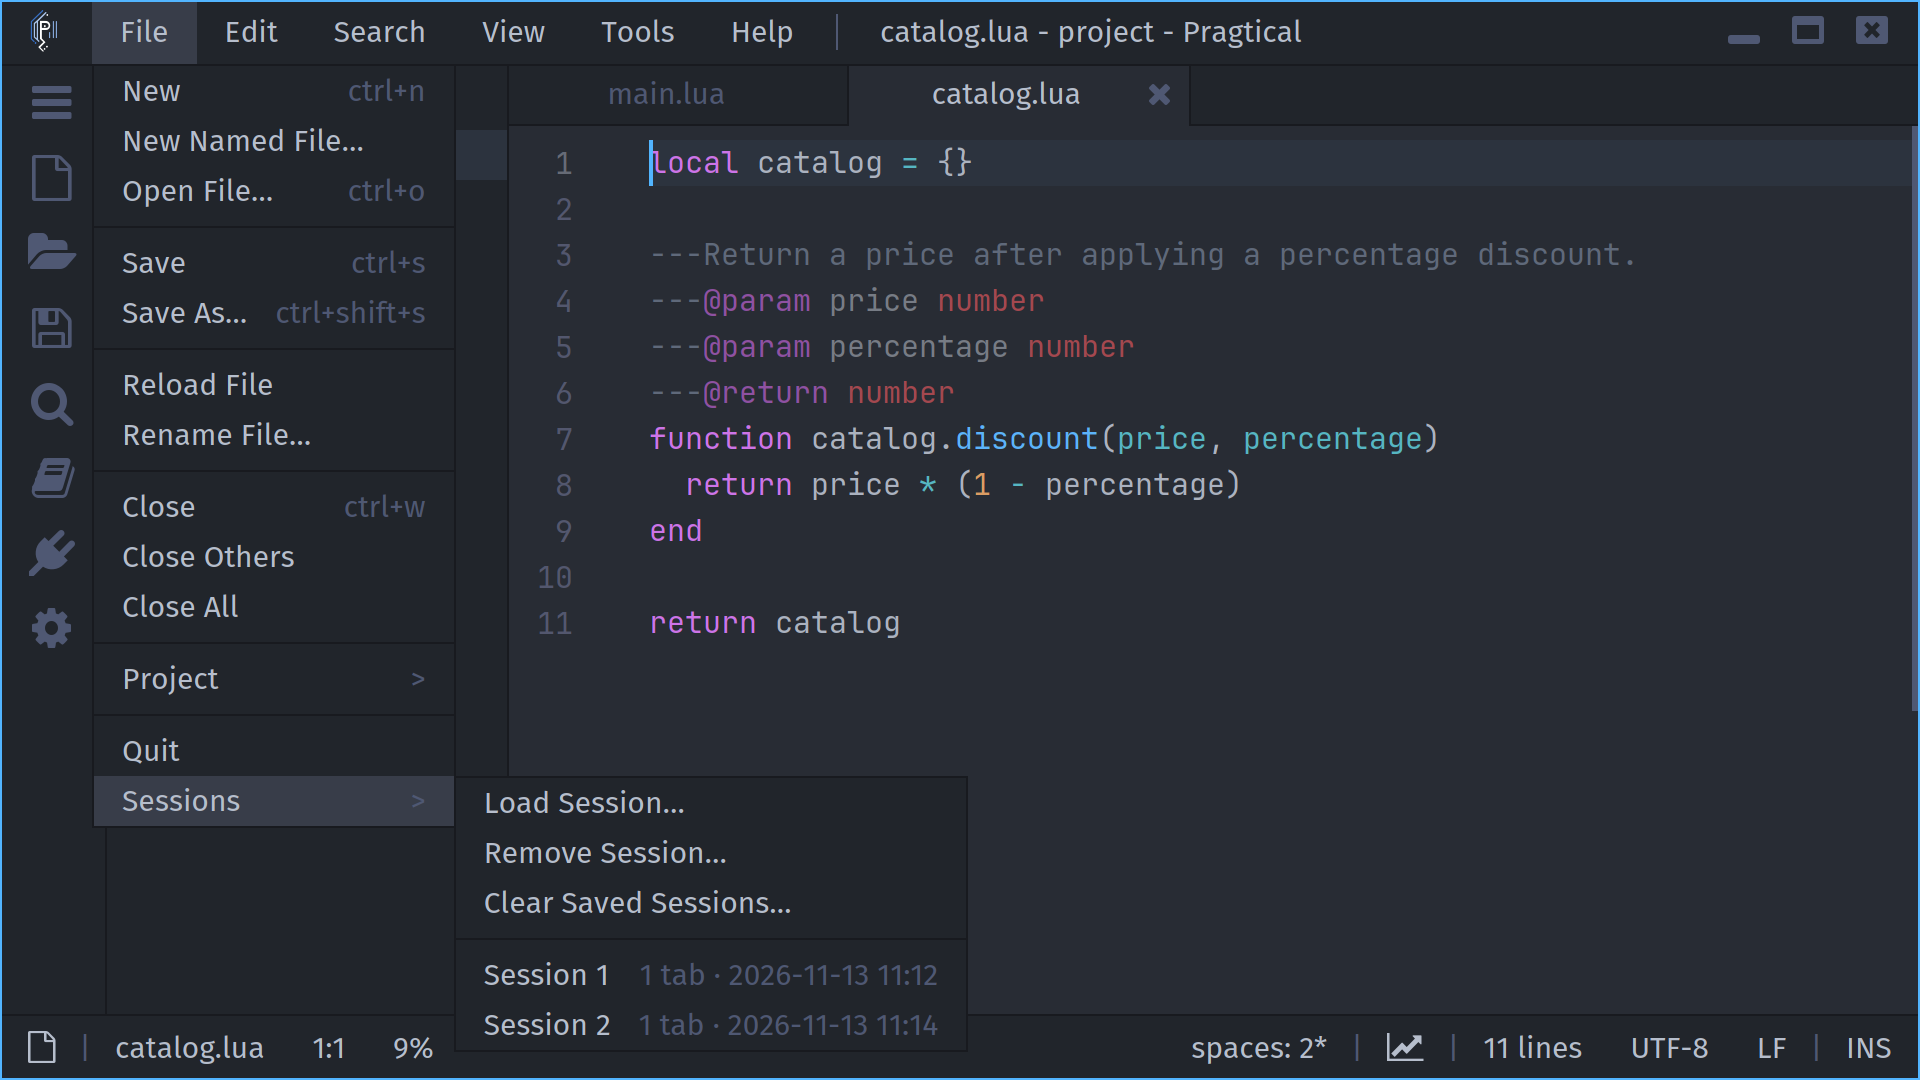
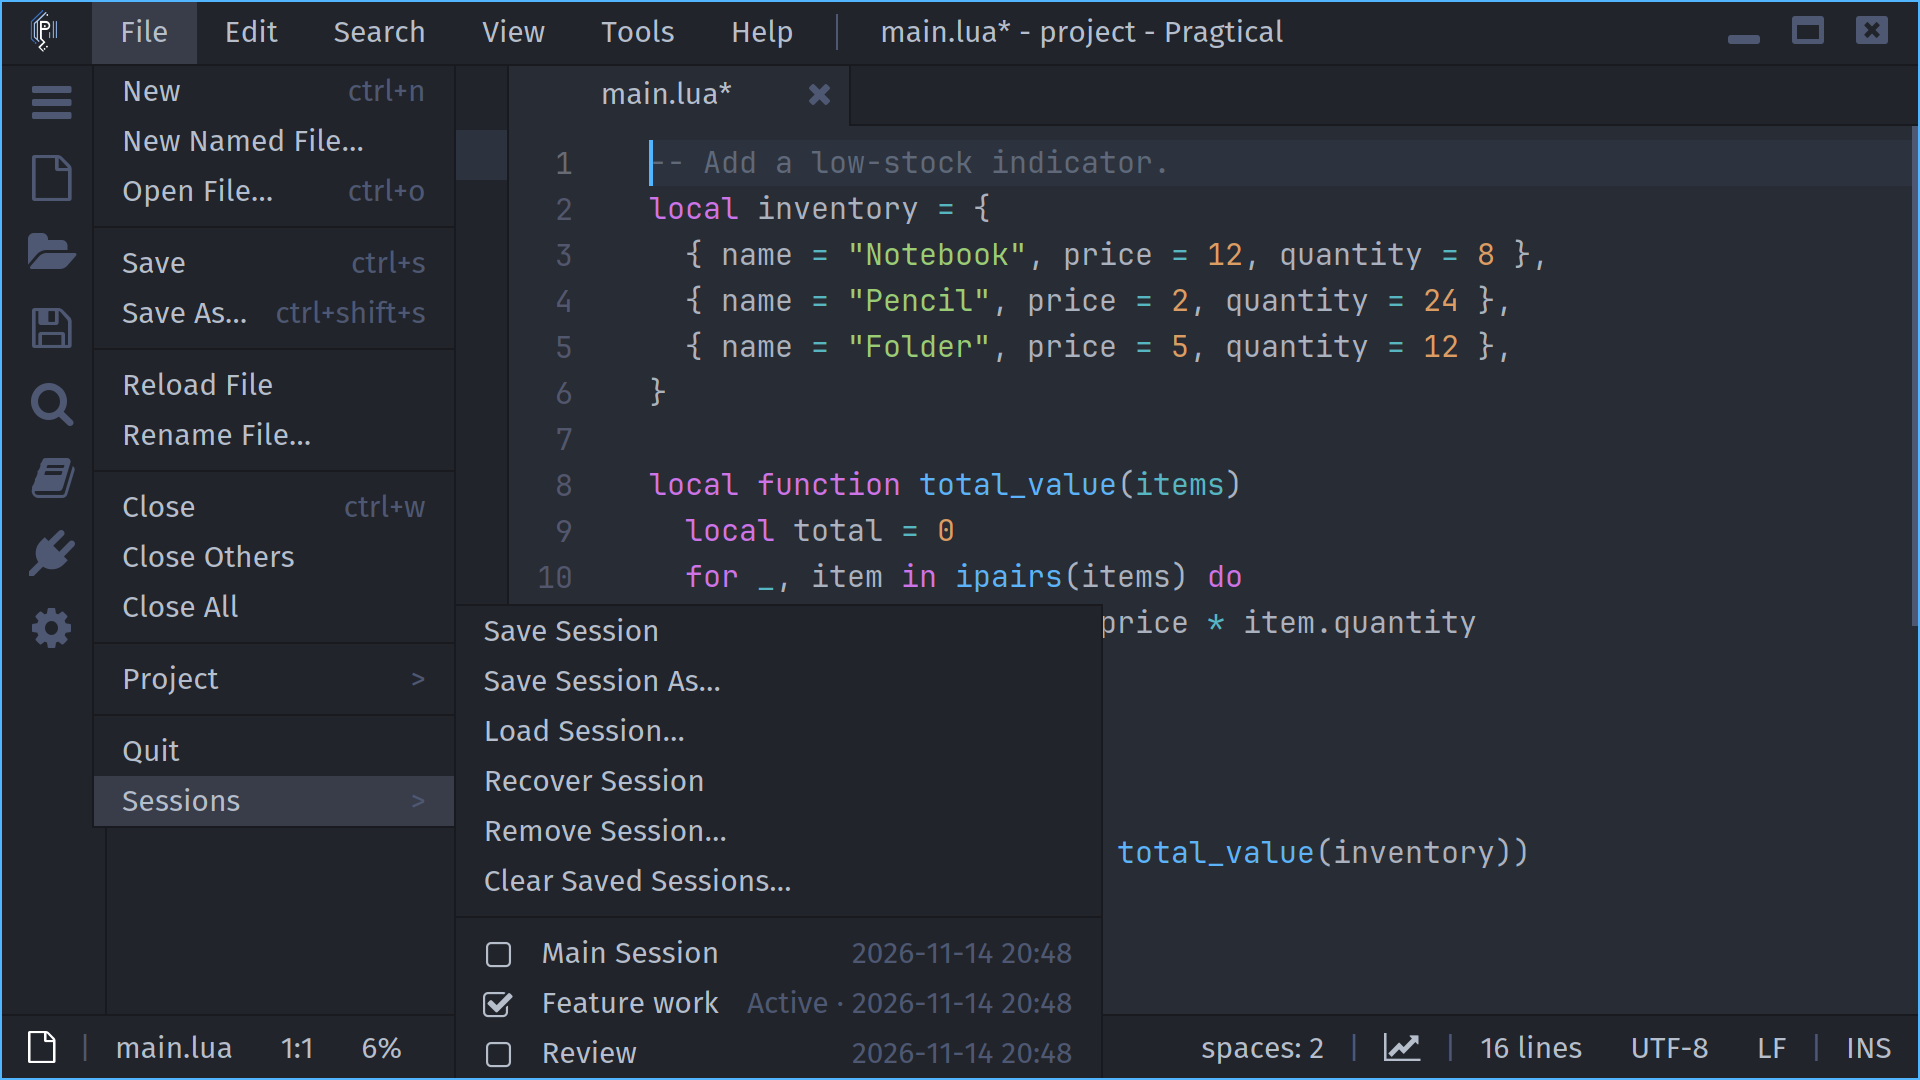
Update workspace session documentation
Document named sessions and recovery with current menu and settings
captures. Refresh the generated workspace API reference.

diff --git a/docs/user-guide/workspace-sessions.md b/docs/user-guide/workspace-sessions.md
@@ -1,45 +1,149 @@
 ---
 sidebar_position: 2.6
-description: Restore project workspaces and choose or remove saved sessions.
+description: Save named project sessions and recover unsaved work with optional periodic snapshots.
 ---
+
+import Tabs from '@theme/Tabs';
+import TabItem from '@theme/TabItem';
 
 # Workspace Sessions
 
 The Workspace plugin remembers a project's open documents, split layout,
-active tab and view state. It saves automatically when exiting or changing
-projects and restores the matching project workspace on startup.
+active tab, view state, and added project directories. Each project has a
+**Main Session** and can have additional named sessions for different tasks.
+The active session is saved when you exit or change projects and restored
+when you return.
+
+![The File menu showing session commands and a checked active named session](/img/user-guide/workspace/sessions.png)
+
+Workspace saves include unsaved text in existing files and untitled documents.
+They do **not** save those edits to the document files. Review restored edits
+before saving them normally.
+
+## Save a Session
+
+Open **File > Sessions**:
+
+- **Save Session** updates the active session immediately.
+- **Save Session As** saves the current layout and buffers under a name and
+  makes that session active.
+
+For example, keep your usual layout in Main Session, then use Save Session As
+to create a separate **Feature work** session. Later saves and normal exits
+update Feature work, leaving the saved Main Session available to load again.
+Using an existing name replaces that named session's saved state.
+
+Session names must contain non-whitespace text and cannot contain control
+characters. Very long names may be rejected, particularly when their encoded
+filenames exceed the filesystem-safe limit.
 
 ## Choose a Saved Session
 
 Open **File > Sessions** to see saved sessions for the current root project.
-Entries include a tab count and save time. Choose a session directly, or select
-**Load Session** to search the list using a command prompt.
+Main Session appears first, followed by named sessions in alphabetical order.
+A checkmark identifies the active session. Choose a session directly, or select
+**Load Session** to search the list. The prompt shows **Active** beside the
+current session and includes save times.
 
-![The File menu listing saved sessions for the current project](/img/user-guide/workspace/sessions.png)
+Before switching, the current workspace is saved to its active session. The
+chosen session replaces the document layout and becomes active; loading does
+not delete its saved file. If the backup or restoration fails, the current
+layout and selection are retained. Locked panels stay attached while the
+document layout is restored.
 
-Before switching, the current workspace is backed up, including unsaved text
-in existing files and untitled documents. The chosen session replaces the
-document layout. If the backup or restoration fails, the current layout and
-selected saved session are retained.
+Normal startup returns to the last active session, or Main Session if that
+named session no longer exists. Opening explicit files on startup skips
+automatic workspace restoration; you can still load a session manually.
 
-Session loading restores buffers; it does not save those buffers to their
-files. Review restored edits before saving them.
+## Recover Unsaved Work
+
+Optional periodic saving keeps a temporary recovery snapshot of the project's
+layout and unsaved buffers. It is disabled by default. When enabled, it saves
+changed workspace state every **10 seconds** by default, without writing the
+document files or replacing the active session's regular save.
+
+Each project has one recovery snapshot, reused rather than accumulated into a
+history. It records which session the work belongs to. On normal project
+restoration, an available recovery snapshot takes precedence over the regular
+session save. You can also choose **File > Sessions > Recover Session** to
+restore it manually.
+
+Recovery restores unsaved edits as buffers, not as saved changes on disk.
+A successful regular session save clears the temporary recovery snapshot.
+Periodic saving cannot recover edits made after its latest snapshot, so save
+important work normally rather than relying on it as a backup system.
+
+### Configuration
+
+<Tabs groupId="configuration">
+  <TabItem value="user-module" label="User Module" default>
+
+Enable periodic recovery in your user module:
+
+```lua
+local config = require "core.config"
+
+config.plugins.workspace.autosave = true
+config.plugins.workspace.autosave_interval = 10 -- Seconds; minimum 1.
+```
+
+Set `autosave` to `false` to disable periodic snapshots. Saving on exit,
+project changes, and through the session commands still works.
+
+  </TabItem>
+  <TabItem value="settings-ui" label="Settings UI">
+
+Open Settings, select **Plugins**, and expand **Workspace**. Enable
+**Periodically Save Workspace** and adjust **Save Interval** in seconds.
+Changes apply without restarting the editor.
+
+![Workspace plugin settings with periodic saving enabled and a ten-second interval](/img/user-guide/workspace/settings.png)
+
+  </TabItem>
+</Tabs>
+
+Workspace recovery is separate from the optional Autosave plugin that saves
+document files. Enabling one does not enable the other.
 
 ## Remove Saved Sessions
 
-**Remove Session** lets you choose one saved session to delete.
-**Clear Saved Sessions** removes all saved sessions belonging to the current
-root project after confirmation. Neither action closes the currently open
-tabs or removes sessions belonging to another project. Automatic saving on
-exit remains enabled.
+**Remove Session** lets you choose one saved session to delete after
+confirmation. Removing the active named session returns the active selection
+to Main Session and clears its recovery data without closing your current tabs.
+
+**Clear Saved Sessions** removes this project's saved sessions and recovery
+snapshot after confirmation. Neither action closes the currently open tabs,
+saves document files, or removes sessions belonging to another project.
+Saving on exit remains enabled, so a session can be created again from the
+still-open workspace.
+
+## Commands
+
+Press <kbd>ctrl+shift+p</kbd> to find these commands, or use **File > Sessions**.
 
 | Command | Action |
 | --- | --- |
-| `workspace:load-session` | Choose a saved workspace to load. |
+| `workspace:save-session` | Update the active session. |
+| `workspace:save-session-as` | Save a named session and activate it. |
+| `workspace:load-session` | Choose a saved session to load and activate. |
+| `workspace:recover-session` | Restore the project's temporary recovery snapshot. |
 | `workspace:remove-session` | Choose a saved session to remove. |
-| `workspace:clear-sessions` | Confirm removal of this project's saved sessions. |
+| `workspace:clear-sessions` | Confirm removal of this project's saved sessions and recovery data. |
+
+## Storage and Project Matching
 
 Added project directories are stored as absolute paths, so restoration does
-not depend on the directory from which the editor was launched. Sessions are
-local user state; they are separate from trusted project configuration and
-from a plugin's optional [project storage](../developer-guide/writing-plugins/persistent-state.md).
+not depend on the directory from which the editor was launched. Missing
+directories are skipped with a warning. Sessions belong to the root project's
+full path, so projects with the same folder name do not share a session.
+
+Session files live under `storage/ws/<project-name>-<path-hash>/` in the user
+directory. This directory contains `main`, optional `session-<encoded-name>`
+files, and a temporary `recovery` file when needed. Older session files are
+migrated automatically. Multiple editor windows for the same root project
+share these files; they do not have independent per-window recovery histories.
+
+Sessions are local user state, separate from trusted project configuration
+and from a plugin's optional
+[project storage](../developer-guide/writing-plugins/persistent-state.md).
+For plugin integration, see the [Workspace API](/docs/api/plugins.workspace).

diff --git a/docs/api/plugins.workspace.md b/docs/api/plugins.workspace.md
@@ -12,23 +12,13 @@ local workspace = require "plugins.workspace"
 
 ## plugins.workspace.session
 
-### count
+### active
 
 ```lua
-(field) count: integer
+(field) active: boolean
 ```
 
-Number of saved tabs
-
----
-
-### id
-
-```lua
-(field) id: integer
-```
-
-Numeric suffix shared by projects with the same basename
+Whether this is the current session
 
 ---
 
@@ -38,7 +28,7 @@ Numeric suffix shared by projects with the same basename
 (field) key: string
 ```
 
-Original storage key, used to load or remove the session
+Filename within this project's storage directory
 
 ---
 
@@ -48,7 +38,7 @@ Original storage key, used to load or remove the session
 (field) name: string
 ```
 
-User name or automatically assigned session label
+Display name derived from the filename
 
 ---
 
@@ -58,7 +48,7 @@ User name or automatically assigned session label
 (field) saved_at: integer?
 ```
 
-Unix time at which the snapshot was saved
+File modification timestamp
 
 ---
 
@@ -66,13 +56,10 @@ Unix time at which the snapshot was saved
 
 ```lua
 function plugins.workspace.clear_sessions()
-  -> count: integer
+  -> integer
 ```
 
-Remove every saved session for the current project, preserving other projects.
-The active workspace remains open and is still saved normally on exit.
-
-@*return* `count`: `integer` — Number of saved sessions removed
+Clear this project's saved sessions and recovery file, preserving open tabs.
 
 ---
 
@@ -80,13 +67,10 @@ The active workspace remains open and is still saved normally on exit.
 
 ```lua
 function plugins.workspace.get_sessions()
-  -> sessions: plugins.workspace.session[]
+  -> table
 ```
 
-List saved sessions for the current root project's full path.
-Read storage once per request; callers can filter the returned metadata in memory.
-
-@*return* `sessions`: [`plugins.workspace.session`](/docs/api/plugins.workspace#pluginsworkspacesession)`[]` — In numeric session order
+List only this project's filenames and timestamps, without loading buffers.
 
 ---
 
@@ -98,7 +82,7 @@ function plugins.workspace.load_session(key: string)
 ```
 
 Replace the current document layout with a saved session and back up the outgoing one.
-Consume the selected file only after restoration succeeds, as automatic restore does.
+Subsequent saves and checkpoints belong to the selected session.
 A failed backup or restore leaves the current layout and selected session intact.
 
 @*param* `key`: `string` — Original key from get_sessions()
@@ -110,29 +94,26 @@ A failed backup or restore leaves the current layout and selected session intact
 ## remove_session
 
 ```lua
-function plugins.workspace.remove_session(key: string)
-  -> removed: boolean
+function plugins.workspace.remove_session(key: any)
+  -> boolean
 ```
 
-Remove one saved session belonging to the current project.
-This does not close any tabs or modify sessions belonging to another project.
-
-@*param* `key`: `string` — Original key from get_sessions()
-
-@*return* `removed`: `boolean` — Whether a matching session was found and removed
+Remove one saved session, returning to main if it was active.
 
 ---
 
 ## save_session
 
 ```lua
-function plugins.workspace.save_session()
+function plugins.workspace.save_session(name?: string)
   -> key: string?
 ```
 
-Save the current workspace, including unsaved buffers, to a new session file.
+Save the current workspace. A name saves and activates an additional session.
 
-@*return* `key`: `string?` — New storage key, or nil if saving is pending or failed
+@*param* `name?`: `string` — Label for a new saved session; omit to update the active session.
+
+@*return* `key`: `string?` — Storage key, or nil if saving is pending or failed.
 
 ---
 

diff --git a/docs/intro.md b/docs/intro.md
@@ -167,8 +167,8 @@ plugins to provide new CLI flags.
 * **[Project Search]** - search and replace across project directories, open
 results in splits, and dock results on either side or use a centered popup.
 
-* **[Workspace Sessions]** - restore project layouts and unsaved buffers,
-choose saved sessions, and remove obsolete sessions from the File menu.
+* **[Workspace Sessions]** - keep named project layouts and optionally save
+recovery snapshots of unsaved work, without saving document files.
 
 * **[Line Wrapping]** - wrap at the configured column limit or viewport width,
 with word/letter modes, continuation indentation and a wrapping guide.

diff --git a/docs/user-guide/how-to-do-x.md b/docs/user-guide/how-to-do-x.md
@@ -219,7 +219,8 @@ Open command palette (`Ctrl+Shift+P`) and look for the keybinding shown on the r
 
 ### Save workspace
 Your workspace (open files, layout) saves automatically per project.
-Use **File > Sessions** to revisit saved layouts; see
+Use **File > Sessions > Save Session As** to create a named session, or
+**Load Session** to switch layouts. For optional periodic recovery, see
 [Workspace Sessions](workspace-sessions.md).
 
 ### Open recent project

diff --git a/docs/user-guide/introduction.md b/docs/user-guide/introduction.md
@@ -157,7 +157,7 @@ file browser and fuzzy finder.
 
 Pragtical automatically saves the workspace layout and restores it when you
 return to the project. [Workspace Sessions](workspace-sessions.md) explains
-saved sessions and backups of unsaved documents.
+named sessions and optional recovery snapshots of unsaved documents.
 
 
 [1]: /img/user-guide/find.png
